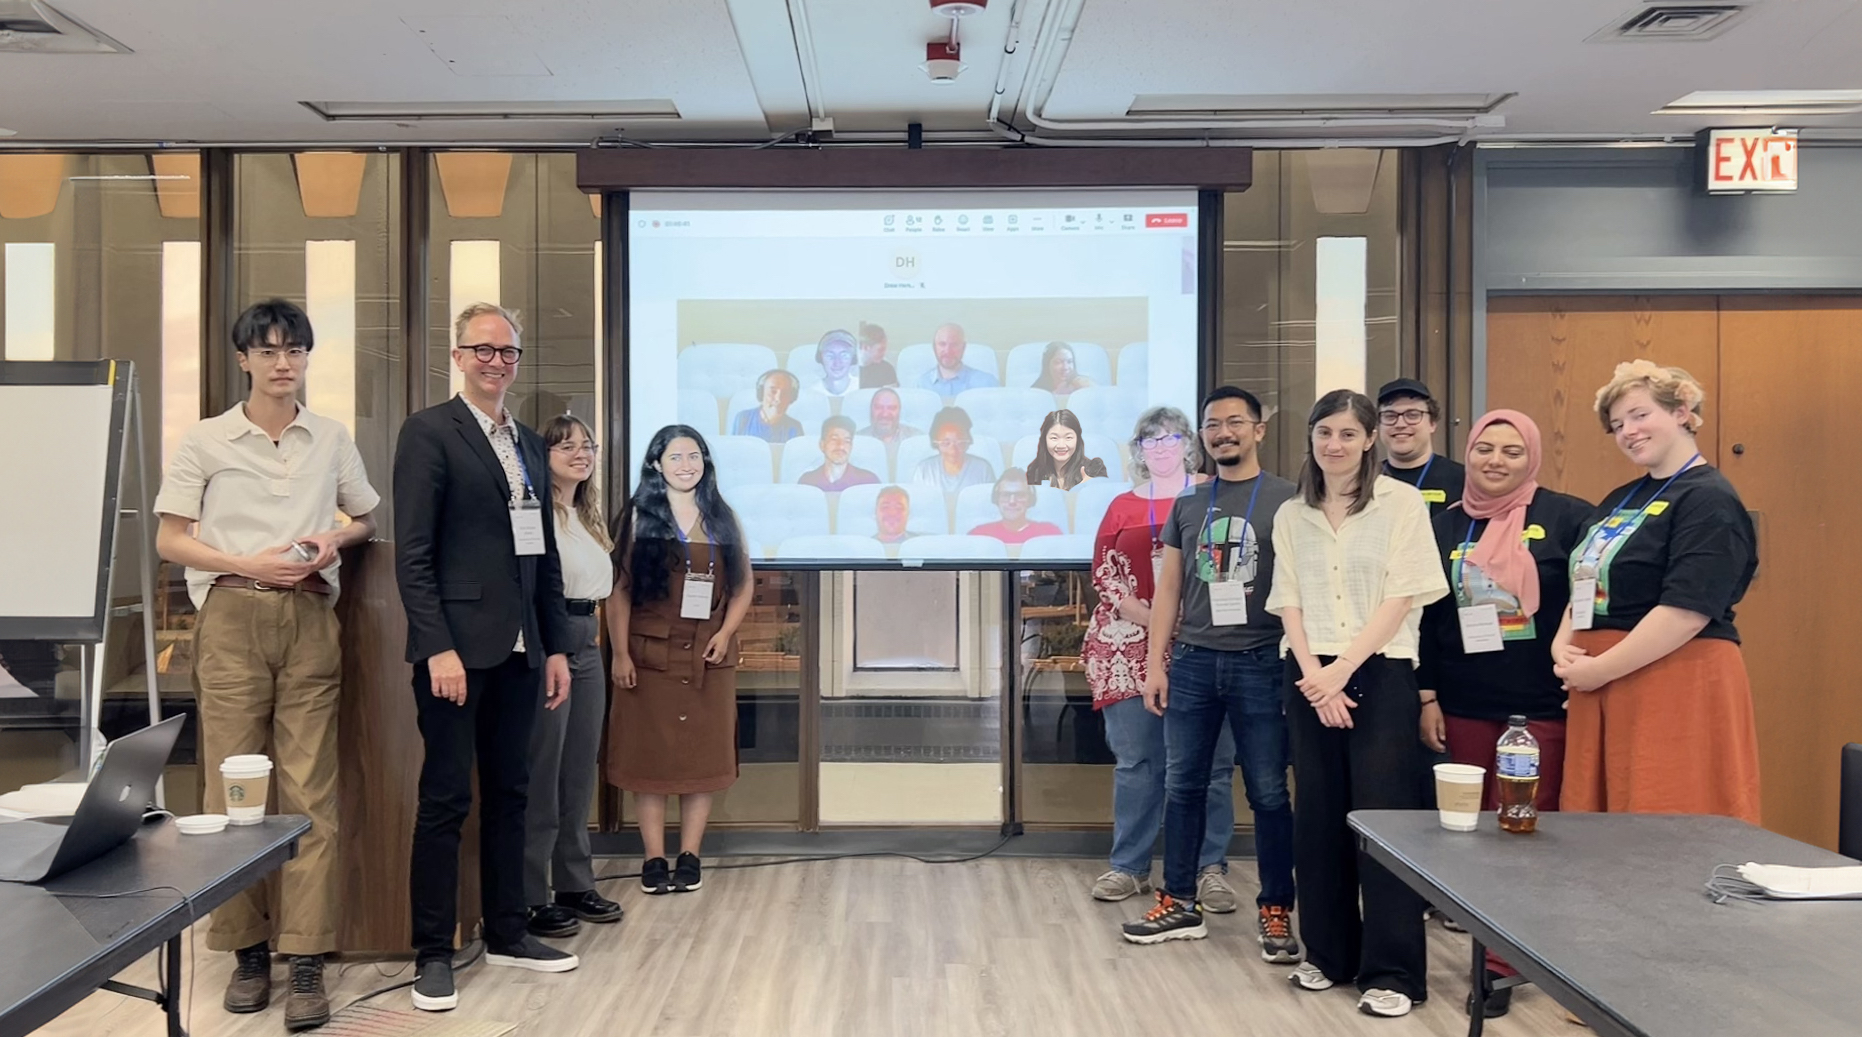
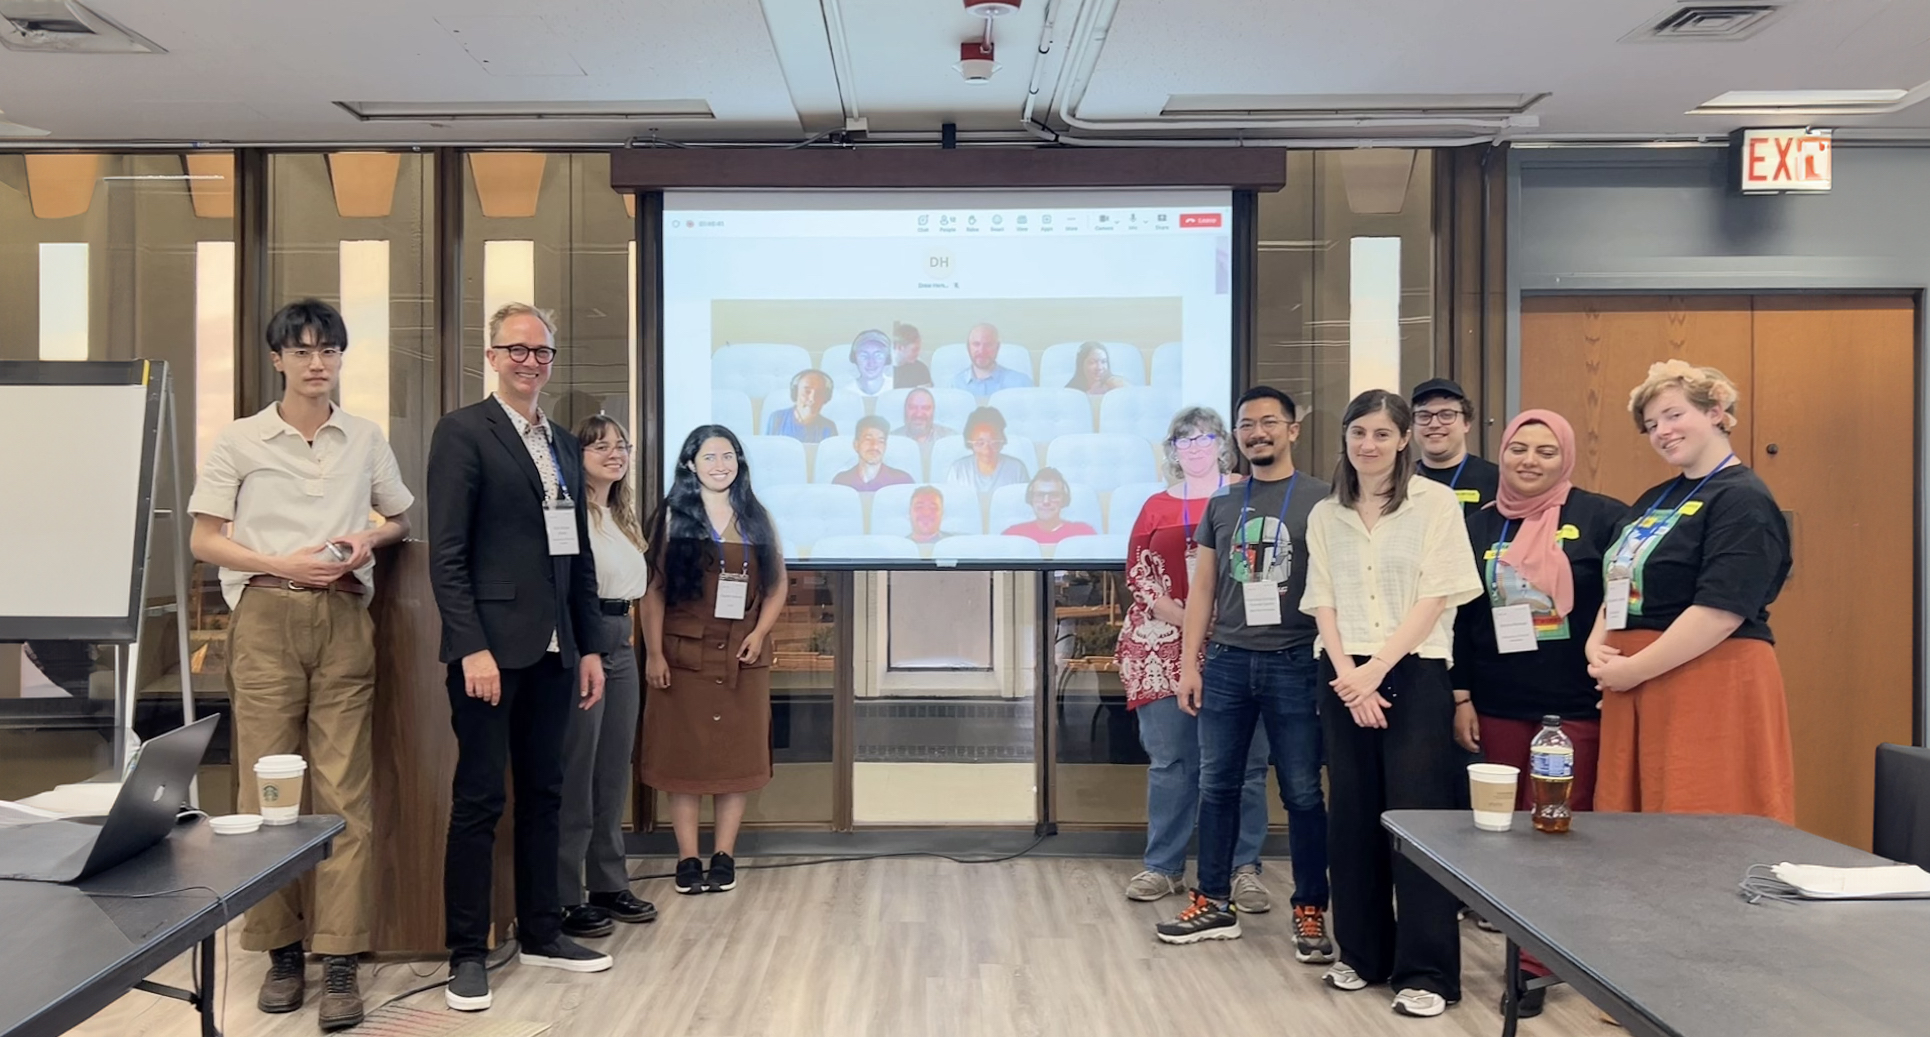
aa

diff --git a/2024.md b/2024.md
@@ -29,7 +29,7 @@ Nick Bryan-Kinns, Corey Ford, Shuoyang Zheng, Helen Kennedy, Alan Chamberlain, M
 
 Co-created mindmap from the 2nd International Workshop on Explainable AI for the Arts (XAIxArts) exploring the themes that lead to the creation of the XAIxArts Manifesto. High Resolution and Interactive Mindmap: [https://app.excalidraw.com/l/8sDmlvduhSt/6OVLf5GFL7f](https://app.excalidraw.com/l/8sDmlvduhSt/6OVLf5GFL7f)  
 
-### **Workshop attendees**    
+### **Group photograph from the workshop**    
 
 <img src='./assets/archives/xaixarts2_group_photo.jpg' width='100%'></img>   
 
